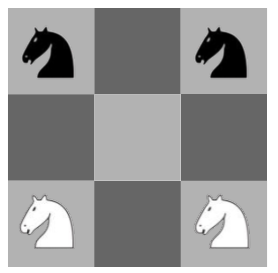
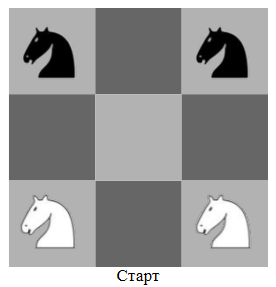
till the end of chapter 1 content

Changed region(s): [[0.029, 0.0, 0.9855, 0.9963], [0.6957, 0.0879, 0.8986, 0.293]]

diff --git a/Graphs_Vertices_And_Edges/main.html b/Graphs_Vertices_And_Edges/main.html
@@ -1,5 +1,21 @@
+<html>
+<head>
+<style>
+h1 { text-align: center; color: #00A2E8; }
+p { text-indent: 20px; text-align: justify; }
+</style>
+</head>
+
+<body>
+
+<table style="border-collapse: collapse; border: 0px;" cellpadding="20" width="700">
+<tr>
+<td>
+
 <h1>Графы. Вершины и рёбра</h1>
+
 <p>На рисунках изображены самые разные схемы.</p>
+
 <table border="0" cellpadding="10">
 <tr>
 <td style="vertical-align: top;">а) Часть родословного дерева потомков Николая Бернулли:<br/>
@@ -20,17 +36,67 @@
 </td>
 </tr>
 </table>
+
 <p>У всех этих схем есть общее - они показывают связи между отдельными элементами. В родословном дереве линия идёт от отца к сыну, схема молекулы показывает, в каком порядке связаны между собой атомы углерода, водорода и кислорода. На схеме метро связи - переходы и перегоны между соседними станциями, а радиосхема показывает, как соединить между собой радиодетали, чтобы получился работающий прибор.<br>Для изображения и изучения связей между различными объектами &mdash; предметами или понятиями &mdash; в математике применяется <strong>граф</strong>. Слово &laquo;граф&raquo; происходит от латинского слова graphica - рисование&raquo;, &laquo;черчение&raquo;.</p>
+
 <table style="border-collapse: collapse; background: #FFEDE1; border: 1px solid black; table td {border: none;}" cellpadding="10" >
 <tr><td><img src="../img/book.png" width="32"/></td><td><strong>Граф</strong> - это изображение объектов и связей между ними с помощью точек и линий. Точки в графе называются <strong>вершинами графа</strong>. Некоторые (не обязательно все) вершины соединены линиями. Эти линии называются <strong>рёбрами графа</strong>.</td></tr>
 </table>
-<p>Если вершина является концом ребра, говорят, что ребро <b>исходит</b> из этой вершины, или что оно <b>входит</b> в неё. Вершина не обязательно должна быть соединена ребрами с другими вершинами. Вершину, из которой не выходит ни одно ребро, называют <b>изолированной</b>. Каждая вершина в графе должна быть явно отмечена. На рисунке этом рисунке видно, что рёбра могут пересекаться, но точка пересечения не является вершиной графа:</p>
-<p><img src="img/graph1.png" width="250"></p>
-<p>Это как две нитки: одна пересекает другую, но узелка в точке пересечения нет.</p>
-<p>В графе важны только сами вершины и связи между ними; взаимное расположение вершин не важно. Можно представлять себе граф как пуговицы, соединённые длинными нитками. Пуговицы можно двигать как угодно, лишь бы нитки не рвались. Например, на этих рисунках показаны дваграфа, полученные друг из друга &laquo;движением вершин&raquo;:</p>
-<p><table border="0"><tr><td><img src="img/graph1.png" width="250"></td><td><img src="img/graph2.png" width="250"></td></tr></table>
-<p>Проверьте, что вершины в обоих графах связаны одинаково.<br/>Такие графы мы будем считать одинаковыми.<br/><br/>Если вершин и ребер много, определить, одинаковы ли графы на разных рисунках, непросто.</p>
-<table style="border-collapse: collapse; background: #FFEDE1; border: 1px solid black; table td {border: none;}"  cellpadding="10">
-<tr><td><img src="../img/exclamation-mark.png" width="32"/></td><td>Если в двух графах вершины связаны рёбрами в одном и том же порядке, то один граф можно получить из другого, передвигая вершины. Такие графы мы считаем <b>одинаковыми</b>.</td></tr>
+
+<br/>
+
+<table style="border-collapse: collapse; border: 0px;">
+<tr>
+<td rowspan="2">
+<p>Если вершина является концом ребра, говорят, что ребро <b>исходит</b> из этой вершины, или что оно <b>входит</b> в неё. Вершина не обязательно должна быть соединена ребрами с другими вершинами. Вершину, из которой не выходит ни одно ребро, называют <b>изолированной</b>.</p>
+<p>Каждая вершина в графе должна быть явно отмечена. На этом рисунке видно, что рёбра могут пересекаться, но точка пересечения не является вершиной графа. Это как две нитки: одна пересекает другую, но узелка в точке пересечения нет.</p>
+<p>В графе важны только сами вершины и связи между ними; взаимное расположение вершин не важно. Можно представлять себе граф как пуговицы, соединённые длинными нитками. Пуговицы можно двигать как угодно, лишь бы нитки не рвались. Например, на этих рисунках показаны два графа, полученные друг из друга &laquo;движением вершин&raquo;. Проверьте, что вершины в обоих графах связаны одинаково. Такие графы мы будем считать одинаковыми.</p>
+<p>Если вершин и ребер много, определить, одинаковы ли графы на разных рисунках, непросто.</p>
+</td>
+<td><img src="img/graph1.png"></td>
+</tr>
+<td><img src="img/graph2.png"></td>
 </table>
-<p>ПРИМЕР 1. На рисунках 11 и 12 изображены одинаковые графы или различные?<br>И в том, и в другом графе ребра одни и те же: АВ, ВЖ, ВЕ, БЗ, БД, ДГ, ЖЕ и ГЗ.<br>Нам удалось показать, что вершины в этих двух графах связаны одинаково. Значит, графы одинаковы.<br>Граф на рисунке 12 удобнее. Видно, что он состоит из двух не связанных частей.</p>
+
+<br/>
+
+<table style="border-collapse: collapse; background: #FFEDE1; border: 1px solid black; table td {border: none;}" cellpadding="10">
+<tr><td><img src="../img/exclamation-mark.png" width="32"/></td><td>Если в двух графах вершины связаны рёбрами в одном и том же порядке, то один граф можно получить из другого, передвигая вершины. Такие графы мы считаем <b>одинаковыми</b>.</td></tr></table>
+
+<p><b><font color="#00A2E8">ПРИМЕР 1.</font></b> На рисунках изображены одинаковые графы или различные?</p>
+<p>И в том, и в другом графе ребра одни и те же: АВ, ВЖ, ВЕ, БЗ, БД, ДГ, ЖЕ и ГЗ.</p>
+<p>Нам удалось показать, что вершины в этих двух графах связаны одинаково. Значит, графы одинаковы.</p>
+
+<table border="0" align="center">
+<tr><td><img src="img/graph3.png"></td><td><img src="img/graph4.png"></td></tr>
+</table>
+
+<p>Граф на рисунке на втором рисунке удобнее. Видно, что он состоит из двух не связанных частей.</p>
+
+<table style="border-collapse: collapse; background: #FFEDE1; border: 1px solid black; table td {border: none;}" cellpadding="10">
+<tr><td><img src="../img/exclamation-mark.png" width="32"/></td><td>Нужно стараться изображать графы как можно проще и яснее. Если с первого раза не получилось, лучше перерисовать граф в более удобном виде.</td></tr></table>
+
+<p><b><font color="#00A2E8">ПРИМЕР 2.</font></b> В архипелаге шесть островов и шесть мостов: мост между островами Адуак и Бани, мост между островами Адуак и Видо, между островами Бани и Видо, между островами Екити и Гауту, между Бани и Джеми и между Видо и Джеми. Можно ли по мостам перейти с острова Адуака на остров Гауту?</p>
+<p>Построим граф. Острова изобразим вершинами, а мосты - рёбрами. Если нарисовать граф подходящим образом, то ответ очевиден: нельзя.</p>
+
+<table border="0" align="center">
+<tr><td><img src="img/graph5.png"></td></tr>
+</table>
+
+<p><b><font color="#00A2E8">ПРИМЕР 3.</font></b> Два чёрных и два белых коня стоят в углах шахматной доски 3 х 3, чёрные вверху, а белые внизу. Можно ли, передвигая их по шахматным правилам, поставить белых коней в два противоположных угла, а чёрных - в два других противоположных угла?</p>
+<table border="0" align="center"><tr><td><img src="img/chess1.png"></td><td><img src="img/chess2.png"></td></tr></table>
+<p><b><font color="#00A2E8">Решение.</font></b> Обозначим поля шахматной доски 3х3 буквами и построим граф игры.</p>
+<table border="0" align="center"><tr><td><img src="img/chess3.png"></td></tr></table>
+<p>Поля изобразим вершинами. Если из одного поля ходом коня можно попасть в другое поле, то соответствующие вершины свяжем ребром. Кони изображены рядом с теми вершинами, в которых они находятся в начале.</p>
+<table border="0" align="center"><tr><td><img src="img/chess_graph1.png"></td></tr></table>
+<p>Вопрос теперь стоит иначе: можно ли передвинуть коней вдоль рёбер графа из положения «Старт» в положение «Финиш»?</p>
+<table border="0" align="center"><tr><td><img src="img/chess_graph2.png"></td></tr></table>
+<p>На старте два белых коня рядом, и два чёрных тоже рядом; а на финише цвета коней чередуются. Чтобы пройти от старта к финишу, в какой-то момент придётся поставить белого и чёрного коня на одно и то же поле, а это не разрешается шахматными правилами.</p>
+<p><b><font color="#00A2E8">Ответ:</font></b> нельзя.</p>
+
+</td>
+</tr>
+</table>
+
+</body>
+</html>
